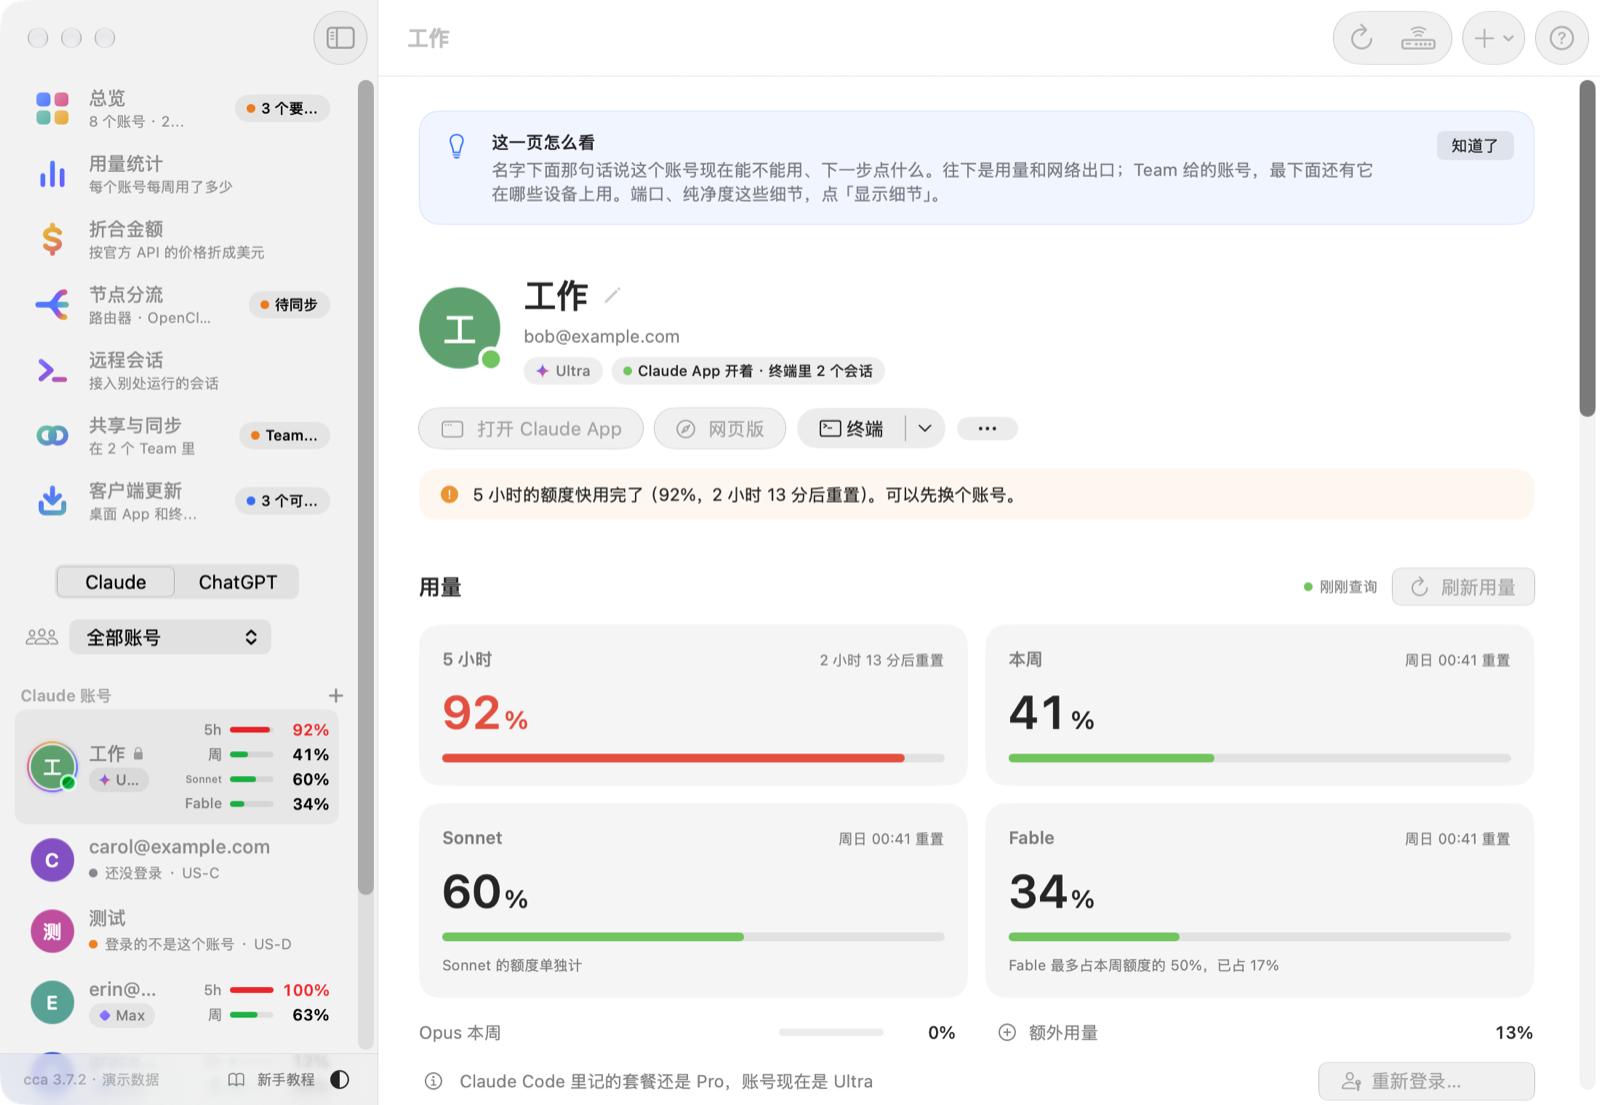
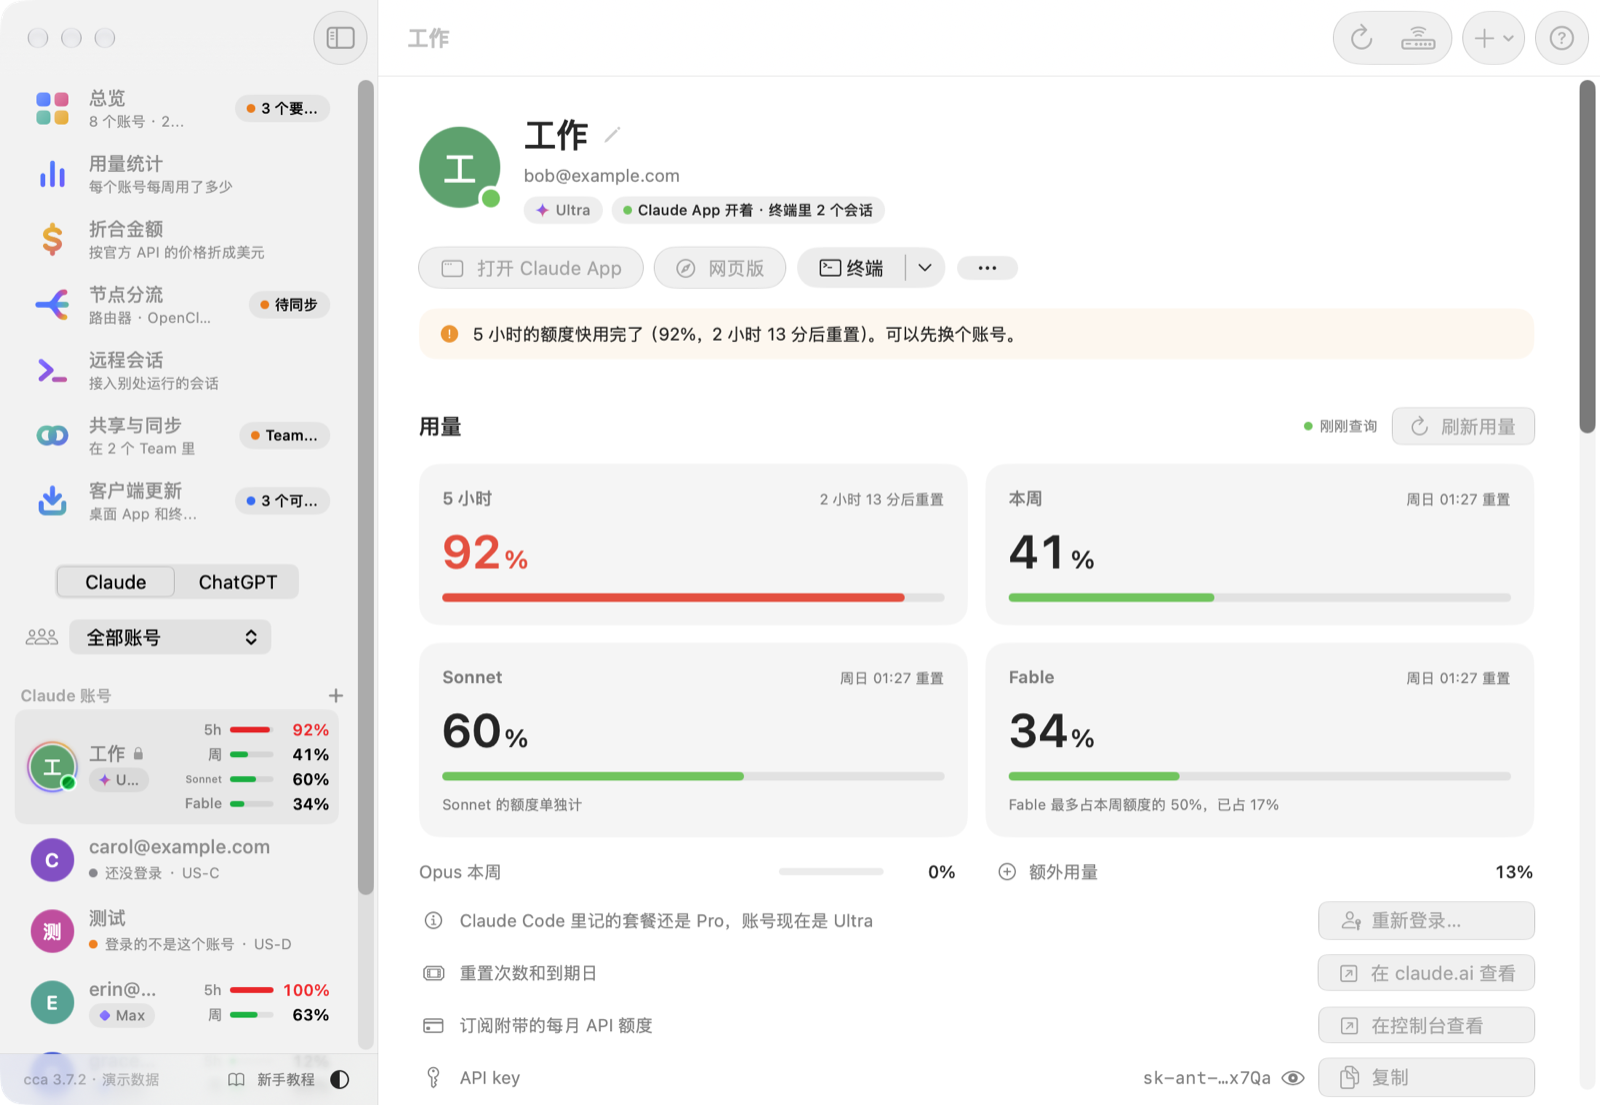
截图模式：弹层按屏幕区域截、原样的分辨率，CCA_GUI_SNAPSHOT_TIPS=0 关掉提示卡片；README 的图重截
- 弹层（flow-*、tutorial、whatsnew）：单截弹层的窗口，macOS 27 给的是主窗口连同弹层、缩成弹层那么大（约 0.75 倍，
  字是糊的）。Snapshot.capture 对有 sheetParent 的窗口改用 SCContentFilter(display:including:)，只合成这个 App 的主窗口
  和弹层，sourceRect 是弹层四周各多 24 点，屏幕原样的分辨率（currentProcess 就能截，不要录屏权限）
- 提示卡片的 id 收成 TipCard.ID（值不变：设置里记着的关掉了哪几张照旧认）；截图模式带 CCA_GUI_SNAPSHOT_TIPS=0 时
  逐张 guide.dismiss，像点过“知道了”（演示模式的设置在内存里，defaults 改不到）。不带时照旧显示
- README：overview、account、welcome 重截，不带提示卡片；welcome 改成整个窗口（最矮的窗口），裁到欢迎卡片下面会切到
  空的账号卡片；第 2 步加 network.png（配置向导的「这台 Mac 怎么给账号联网」，没加入 Team 时的说法），中英两份一起
- macos/README.md「看界面（截图）」：弹层怎么截、CCA_GUI_SNAPSHOT_TIPS、README 的图怎么截
- 验证：调试版截了 27 个 flow-* 和 12 张教程卡片，都是 2 倍（宽 1056、1296 像素）；TIPS=0 时总览、账号页、第一次打开
  都没有提示卡片，不带时照常有；发布版（不带 DEBUG）编过、自检过

diff --git a/macos/Sources/CcaApp/Snapshot.swift b/macos/Sources/CcaApp/Snapshot.swift
@@ -9,7 +9,7 @@ import SwiftUI
 ///     CCA_GUI_FIXTURES=macos/Tests/Fixtures CCA_GUI_SNAPSHOT=/tmp/shots macos/build/cca.app/Contents/MacOS/cca
 ///
 /// 只截自己的窗口（SCShareableContent.currentProcess），不用录屏权限；窗口放到别的窗口后面，不抢焦点。
-/// CCA_GUI_SNAPSHOT_SCENES=claude,routing 只截这几个场景。
+/// CCA_GUI_SNAPSHOT_SCENES=claude,routing 只截这几个场景；CCA_GUI_SNAPSHOT_TIPS=0 把页面上的提示卡片都关掉（像点过“知道了”）。
 @MainActor
 enum Snapshot {
     static var directory: URL? {
@@ -41,6 +41,9 @@ enum Snapshot {
         model.refreshLive()
         // 第一次打开时的卡片教程先关掉（它自己有场景 tutorial）
         guide.finishTutorial()
+        if ProcessInfo.processInfo.environment["CCA_GUI_SNAPSHOT_TIPS"] == "0" {
+            for tip in TipCard.ID.allCases { guide.dismiss(tip) }
+        }
         try? await Task.sleep(nanoseconds: 2_500_000_000)
 
         func first(_ t: ToolID, _ match: (Account) -> Bool) -> AccountRef? {
@@ -417,12 +420,25 @@ enum Snapshot {
                 FileHandle.standardError.write(Data("snapshot: 截不到窗口 \(window.windowNumber)\n".utf8))
                 return
             }
-            let filter = SCContentFilter(desktopIndependentWindow: sw)
+            let filter: SCContentFilter
             let cfg = SCStreamConfiguration()
-            cfg.width = Int(filter.contentRect.width * CGFloat(filter.pointPixelScale))
-            cfg.height = Int(filter.contentRect.height * CGFloat(filter.pointPixelScale))
+            if let parent = window.sheetParent,
+               let ps = content.windows.first(where: { $0.windowID == CGWindowID(parent.windowNumber) }),
+               let display = content.displays.first(where: { $0.frame.intersects(ps.frame) }) {
+                // 弹层：单截弹层的窗口，macOS 27 给的是主窗口连同弹层、缩成弹层那么大（约 0.75 倍，字是糊的）。改成截屏幕上
+                // 弹层四周各多 24 点的那一块，只合成这个 App 的这两个窗口（别的 App 的窗口挡着也不碍事），屏幕原样的分辨率
+                let rect = sw.frame.insetBy(dx: -24, dy: -24).intersection(ps.frame)
+                filter = SCContentFilter(display: display, including: [ps, sw])
+                cfg.sourceRect = rect.offsetBy(dx: -display.frame.minX, dy: -display.frame.minY)
+                cfg.width = Int(rect.width * CGFloat(filter.pointPixelScale))
+                cfg.height = Int(rect.height * CGFloat(filter.pointPixelScale))
+            } else {
+                filter = SCContentFilter(desktopIndependentWindow: sw)
+                cfg.width = Int(filter.contentRect.width * CGFloat(filter.pointPixelScale))
+                cfg.height = Int(filter.contentRect.height * CGFloat(filter.pointPixelScale))
+                cfg.ignoreShadowsSingleWindow = true
+            }
             cfg.showsCursor = false
-            cfg.ignoreShadowsSingleWindow = true
             let img = try await SCScreenshotManager.captureImage(contentFilter: filter, configuration: cfg)
             let rep = NSBitmapImageRep(cgImage: img)
             try rep.representation(using: .png, properties: [:])?.write(to: url)

diff --git a/macos/Sources/CcaApp/Guide.swift b/macos/Sources/CcaApp/Guide.swift
@@ -97,10 +97,10 @@ final class Guide {
         if sheet == .tutorial { finishTutorial() } else { sheet = nil }
     }
 
-    func isDismissed(_ tip: String) -> Bool { dismissedTips.contains(tip) }
+    func isDismissed(_ tip: TipCard.ID) -> Bool { dismissedTips.contains(tip.rawValue) }
 
-    func dismiss(_ tip: String) {
-        dismissedTips.insert(tip)
+    func dismiss(_ tip: TipCard.ID) {
+        dismissedTips.insert(tip.rawValue)
         prefs.set(dismissedTips.sorted().joined(separator: ","), forKey: Keys.tips)
     }
 
@@ -876,8 +876,14 @@ struct TutorialArt: View {
 
 /// 提示卡片：给新手讲一句这一页怎么看；点“知道了”就不再显示（“帮助”菜单里可以重新显示）。
 struct TipCard: View {
+    /// 哪一张。值记在 App 的设置里（关掉了哪几张），不能改：改了，点过“知道了”的又会出来
+    enum ID: String, CaseIterable {
+        case office = "office-page", account = "account-page", routing = "routing-map"
+        case usageStats = "usage-stats-page", costStats = "cost-stats-page"
+    }
+
     @Environment(Guide.self) private var guide
-    let id: String
+    let id: ID
     var systemImage = "lightbulb"
     let title: String
     let message: String

diff --git a/macos/Sources/CcaApp/UsageStatsPage.swift b/macos/Sources/CcaApp/UsageStatsPage.swift
@@ -17,7 +17,7 @@ struct UsageStatsPage: View {
                 let scale = StatsScale(domain: WeeklyChart.domain(lists, now: now), top: WeeklyChart.scaleTop(lists))
                 VStack(alignment: .leading, spacing: 26) {
                     header(accounts, now: now)
-                    TipCard(id: "usage-stats-page", title: "这一页怎么看",
+                    TipCard(id: .usageStats, title: "这一页怎么看",
                             message: "每个账号一行，一根竖条是一周：填得越满用得越多，填满就是这一周的额度用完了；填成灰色的那一周结束前一天没查到，实际可能更多。"
                                 + "右边是平均每周用到多少、几周用完、几周没用到一半，和本周到现在。点一行看这个账号的详情。")
                     if model.state == nil {

diff --git a/macos/Sources/CcaApp/OfficePage.swift b/macos/Sources/CcaApp/OfficePage.swift
@@ -17,7 +17,7 @@ struct OfficePage: View {
                     if model.showWelcome {
                         WelcomeBanner()
                     }
-                    TipCard(id: "office-page", title: "这一页怎么看",
+                    TipCard(id: .office, title: "这一页怎么看",
                             message: "每个账号一张卡片，图里是它现在的状态：屏幕在动是在用；趴在桌上是额度用完了，屏幕上写着几点恢复；椅子空着是还没登录，灰色的人是登录的不是这个账号。左下角的小票是还能重置几次额度，右下角的沙漏是建议先用（本周额度快重置了、还剩不少）。点卡片看详情，右键直接打开，拖动调整顺序。")
                     if model.state == nil {
                         HStack(spacing: 8) {

diff --git a/macos/Sources/CcaApp/CostStats.swift b/macos/Sources/CcaApp/CostStats.swift
@@ -83,7 +83,7 @@ struct CostStatsContent: View {
 
     var body: some View {
         VStack(alignment: .leading, spacing: 26) {
-            TipCard(id: "cost-stats-page", title: "这一页怎么看",
+            TipCard(id: .costStats, title: "这一页怎么看",
                     message: "按 Anthropic、OpenAI、Google 官方 API 的价格，把每个账号用掉的 token 折成美元，看哪个账号用得多；订阅不按这个收费。"
                         + "右上角选看哪台设备（所有设备、本机，或者另一台）、按周还是按天看。"
                         + "每个账号一行，一根竖条是一周（或一天），颜色淡的那一项开始时还没有记录；看所有设备时，有好几台设备的账号下面分台列出。"

diff --git a/macos/Sources/CcaApp/AccountDetail.swift b/macos/Sources/CcaApp/AccountDetail.swift
@@ -13,7 +13,7 @@ struct AccountDetail: View {
             ScrollViewReader { proxy in
                 ScrollView {
                     VStack(alignment: .leading, spacing: 32) {
-                        TipCard(id: "account-page", title: "这一页怎么看",
+                        TipCard(id: .account, title: "这一页怎么看",
                                 message: "名字下面那句话说这个账号现在能不能用、下一步点什么。"
                                     + (a.isAPI ? "往下是它的 API key 和网络出口。"
                                        : "往下是用量和网络出口；Team 给的账号，最下面还有它在哪些设备上用。")

diff --git a/macos/Sources/CcaApp/RoutingPage.swift b/macos/Sources/CcaApp/RoutingPage.swift
@@ -33,7 +33,7 @@ struct RoutingPage: View {
         ScrollView {
             VStack(alignment: .leading, spacing: 22) {
                 RoutingHeader()
-                TipCard(id: "routing-map", title: "这张图怎么看",
+                TipCard(id: .routing, title: "这张图怎么看",
                         message: "左边是账号，中间是给每个账号留的端口，右边是它走的节点。每条彩色的线是一个账号的流量走向：实线正常，虚线有问题（节点选错了，或者端口连不上），点「同步路由器」通常就能修好。点账号看详情。")
                 RoutingBanners()
                 let rows = slotRows()

diff --git a/macos/README.md b/macos/README.md
@@ -78,7 +78,13 @@ CCA_GUI_FIXTURES="$PWD/macos/Tests/Fixtures" CCA_GUI_SNAPSHOT=/tmp/shots macos/b
 检查更新找到新版本时顶上的提示条 update、插画画廊 gallery：每种状态 × 几种档位，不依赖演示数据，调插画用；office 是总览页），每个截浅色、深色两张 PNG 后退出。截图时窗口不在前台，插画是静止的那一帧。`CCA_GUI_SNAPSHOT_SCENES=claude,routing` 只截这几个，
 `CCA_GUI_SNAPSHOT_SIZE=1080x1240` 换窗口大小（看整页、看最小的 860 宽、`1900x1080` 看全屏时的两栏）。只截自己的窗口（`SCShareableContent.currentProcess`），
 不要“屏幕录制”权限；窗口放在别的窗口后面、不抢焦点，所以截出来是窗口不在前台时的样子（主按钮是灰的）。菜单栏面板是近似的
-（真正的面板要点图标才弹出来）。换 `CCA_GUI_FIXTURE_*` 可以截别的情况（比如安装引导）。
+（真正的面板要点图标才弹出来）。换 `CCA_GUI_FIXTURE_*` 可以截别的情况（比如安装引导）。弹层（flow-*、tutorial、whatsnew）截的是弹层
+四周各多 24 点的那一块（连着后面变暗的主窗口），和主窗口一样是屏幕原样的分辨率。`CCA_GUI_SNAPSHOT_TIPS=0` 把页面上的提示卡片都关掉（像点过“知道了”）。
+
+README 的图（`docs/images/`）：带上 `CCA_GUI_SNAPSHOT_TIPS=0`；夹具拷一份，`hello.json` 的 `cca_version` 改成和 App 一样（不然顶上有
+“cca 已经更新到 …”的提示条）；窗口 `1100x760`，截好用 `sips --resampleWidth 1600` 缩小。`welcome.png` 用一份没配置过的 state
+（`config.onboarded` 是 false，没有账号、路由器和 Team），`CCA_GUI_SNAPSHOT_SIZE=1100x420`（窗口停在最矮）；`network.png` 是原样的
+`flow-onboard-net-light.png`，夹具里第 2 步的 `message` 换成没加入 Team 时 cca 说的那句。
 
 ## 界面的规矩
 

diff --git a/README.en.md b/README.en.md
@@ -68,6 +68,9 @@ Setup takes three steps. You can stop at any point and continue later from the o
    - **「路由器」 (Router)**: enter the router's address and its root password once (used only to install a login key, never saved), then tick the nodes your accounts may use. The first time, OpenClash / ShellCrash has to reload its configuration, which takes about 20 seconds and briefly drops new connections on your local network; cca asks before doing it;
    - **「没有路由器」 (No router)**: use cca's built-in proxy. In the next step, when you pick the account's exit node, choose the last item, 「自定义代理…」 (Custom proxy…), and paste your proxy;
    - **「先跳过」 (Skip for now)**: set it up later from the 「＋」 button in the toolbar. Without a router or a Team, you'll still need to paste a proxy when you add an account.
+
+   <img src="docs/images/network.png" width="528" alt="Step 2: how this Mac gets your accounts online (demo data)">
+
 3. **Add an account**: enter its email, an optional alias, and pick an exit node.
 
 A newly added account isn't signed in yet: click its card in the overview to open the account page, then click 「登录…」 (Sign in…). cca opens a terminal window and the sign-in page in a Chrome window just for that account, with the email already filled in; follow the prompts. Once signed in, the account page shows usage and the network exit, and buttons such as 「打开 Claude App」 (Open Claude App), 「网页版」 (Web) and 「终端」 (Terminal) get you going:

diff --git a/README.md b/README.md
@@ -66,6 +66,9 @@ bash /tmp/cca install --gui    # Linux 上不用 --gui
    - **路由器**：填路由器的地址，输一次 root 密码（只用来装一把免密登录的钥匙，不会保存），再勾选允许账号用的节点。第一次要让 OpenClash / ShellCrash 重新加载一次配置，大约 20 秒，这期间局域网里新开的网络连接会断一下，cca 会先问你；
    - **没有路由器**：用 cca 自带的代理。下一步给账号选出口节点时，选最后一项「自定义代理…」，粘贴你的代理；
    - **先跳过**：以后在工具栏的「＋」里再配。没有路由器、也没加入 Team 的话，添加账号时还是要粘贴一条代理。
+
+   <img src="docs/images/network.png" width="528" alt="第 2 步：这台 Mac 怎么给账号联网（演示数据）">
+
 3. **添加账号**：填登录邮箱，起个别名（可以不填），选一个出口节点。
 
 加好的账号还没登录：在总览点它的卡片进入账号页，点「登录…」。cca 会开一个终端窗口，并用这个账号专属的 Chrome 打开登录页（邮箱已经填好），照提示登录就行。登录以后，账号页里能看用量和网络出口，点「打开 Claude App」「网页版」「终端」就能用：
